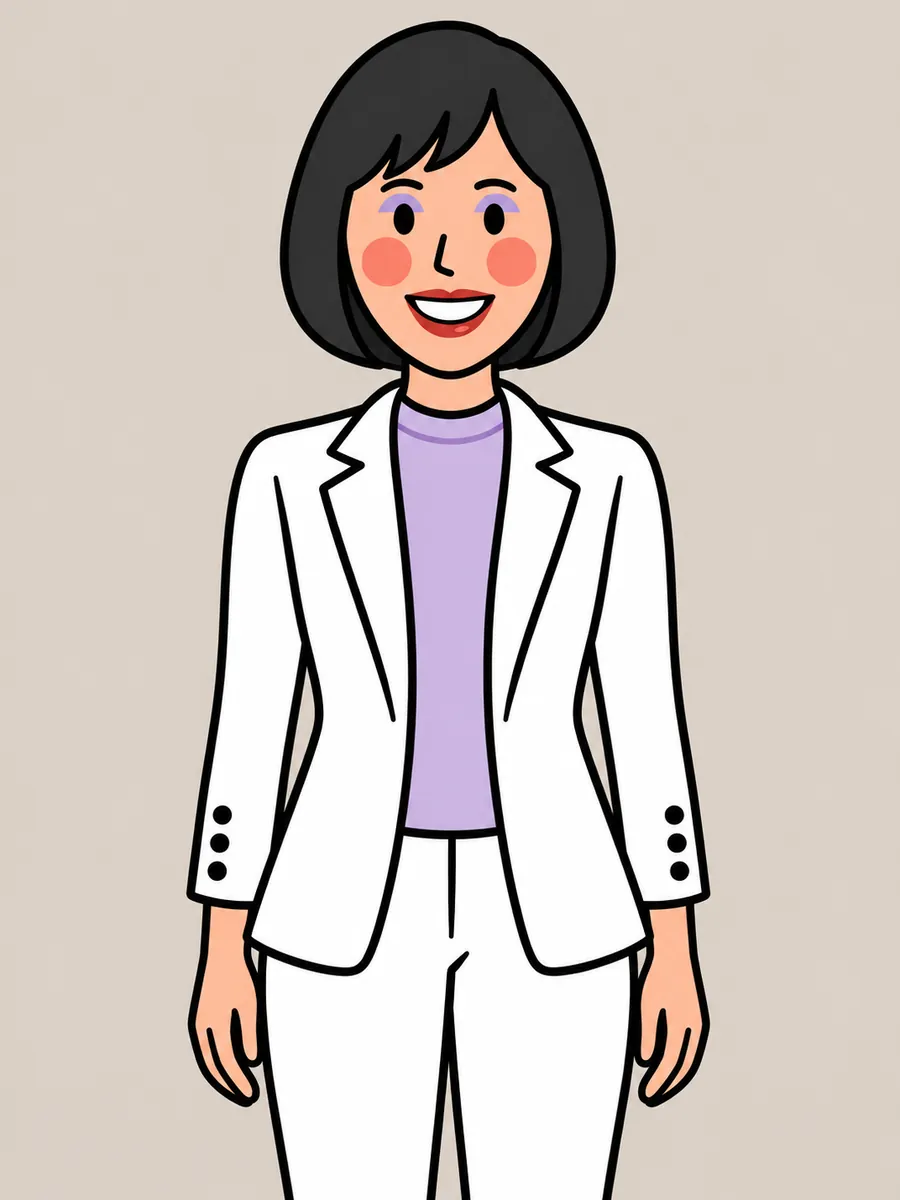
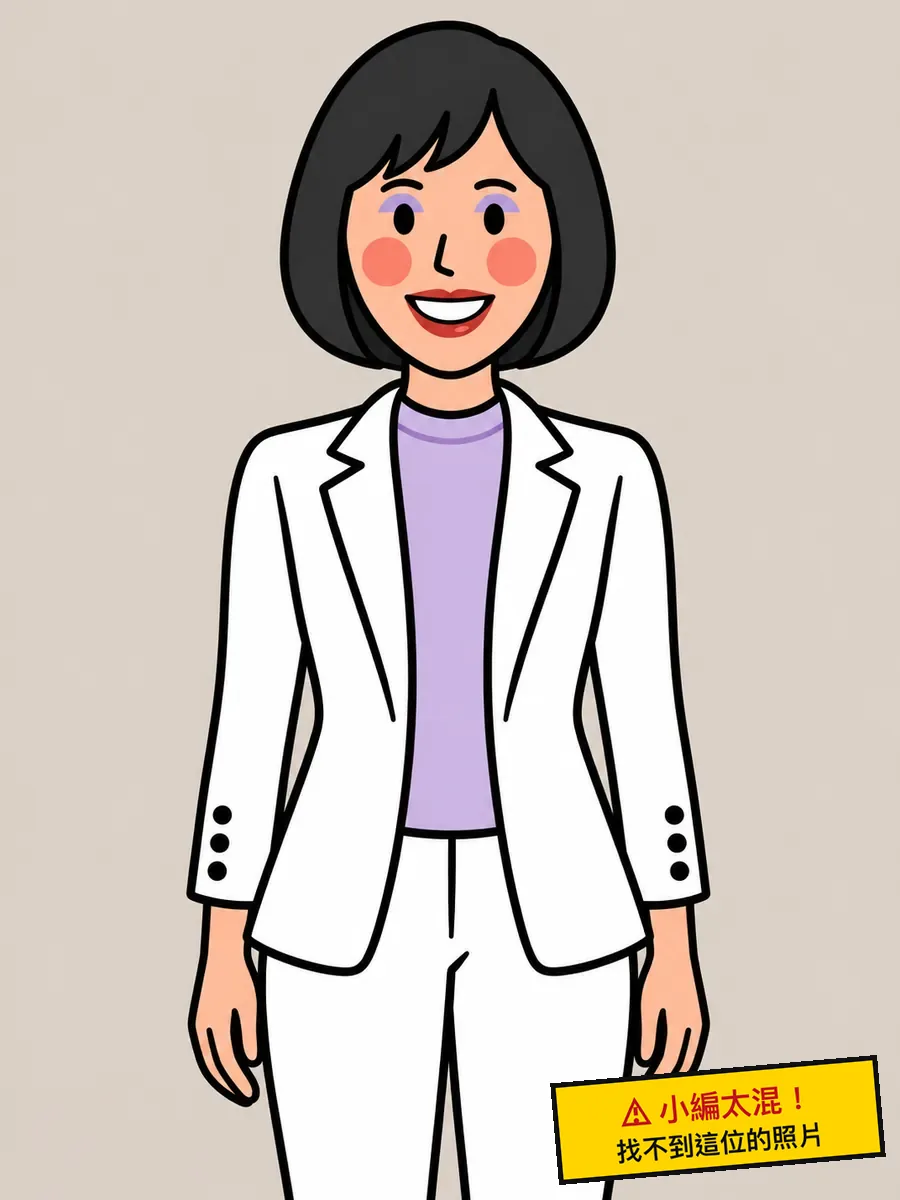
缺照片的候選人直接顯示共用圖、右下角貼「小編太混」貼紙，卡片同列對齊
- NO_IMG 名單直接放共用圖，不靠圖片 404（瀏覽器快取舊圖也不會露出）
- 共用圖右下角貼跟打碼一樣的黃底貼紙，網頁不再疊字
- 同列卡片等高；1.5:1 以上的寬圖佔兩欄、框 3:2

Changed region(s): [[0.5911, 0.8633, 0.9956, 0.9867]]

diff --git a/index.html b/index.html
@@ -118,14 +118,13 @@ button{font:inherit;color:inherit;cursor:pointer}
 .art{display:block;width:100%;height:auto;aspect-ratio:3/4;max-width:100%;background:var(--paper-2)}
 .photo{position:relative;aspect-ratio:3/4;max-width:100%;overflow:hidden;background:var(--paper-2)}
 .photo img{position:absolute;inset:0;width:100%;height:100%;object-fit:cover}
-/* 非直式圖：圖檔是 3:4 補模糊邊，框改成原比例、圖寬貼齊後垂直置中，只露出清楚的畫面 */
+/* 寬圖（WIDE 以上）：圖檔是 3:4 補模糊邊，框改成原比例、圖寬貼齊後垂直置中，只露出清楚的畫面 */
 .photo.fit img{inset:auto 0;top:50%;height:auto;transform:translateY(-50%)}
 .photo.fit .art{position:absolute;inset:0;width:100%;height:100%}
-.wall{align-items:start}
 .opt.wide{grid-column:1/-1}
-/* 沒有這位的圖：改放共用圖（img/_oops-{poster,look}-{m,f}，男女分開），中間疊一條自嘲字（像打碼說明）；共用圖也沒有就只剩內建插畫＋字 */
-.photo.oops::after{content:attr(data-cap);position:absolute;left:8%;right:8%;top:50%;background:var(--ink);color:#fff;font-weight:900;font-size:14px;line-height:1.4;padding:8px 10px;text-align:center;text-wrap:balance;transform:rotate(-3deg)}
-@media (min-width:600px){.opt.wide{grid-column:span 2}}
+/* 沒有照片的候選人：放共用圖 img/_oops-{poster,look}-{m,f}（男女分開，右下角貼紙由 source/scripts/oops_bake.py 畫進圖裡） */
+/* 桌機：寬圖佔兩欄、框固定 3:2，跟同列 3:4 的卡片等高（同列卡片會拉成一樣高） */
+@media (min-width:600px){.opt.wide{grid-column:span 2}.opt.wide .photo{aspect-ratio:3/2!important}}
 .photo .mask{position:absolute;background:var(--ink);display:grid;place-items:center;color:#fff;font-weight:900;font-size:12px;transform:rotate(-3deg)}
 
 .cta{display:flex;flex-wrap:wrap;gap:10px;align-items:center;padding-bottom:28px}
@@ -638,6 +637,7 @@ const LOOK_ALTS = {
   "kinmen-5": ["2"],
   "kinmen-6": ["2"]
 };
+const NO_IMG = new Set(["taipei-1","taipei-2","taipei-4","taipei-6","newtaipei-2","taichung-2","tainan-1","kaohsiung-1","kaohsiung-4","keelung-2","nantou-1","yunlin-1","chiayicity-1","chiayicity-2","chiayicity-5","pingtung-2","yilan-2","yilan-4","yilan-5","hualien-4","taitung-3","penghu-1","penghu-5","penghu-6","kinmen-1","kinmen-3","kinmen-7","lienchiang-1","lienchiang-2"]);
 const IMG_RATIO = {"changhua-1-poster-2":1.0,"changhua-1-poster":1.0,"changhua-2-poster-2":1.0,"changhua-2-poster":1.0,"changhua-3-poster-2":1.0,"changhua-3-poster":2.63,"changhua-4-poster":1.79,"chiayicity-3-poster-2":1.0,"chiayicity-3-poster":1.0,"chiayicity-4-poster-2":1.0,"chiayicity-4-poster":2.63,"chiayicounty-1-poster-2":1.41,"chiayicounty-1-poster":1.92,"chiayicounty-2-poster-2":1.0,"chiayicounty-2-poster":1.0,"hsinchucity-1-poster-2":1.0,"hsinchucity-1-poster":2.6,"hsinchucity-2-poster-2":1.34,"hsinchucity-2-poster":1.0,"hsinchucity-3-poster-2":1.0,"hsinchucity-3-poster":2.63,"hsinchucounty-1-poster":1.0,"hsinchucounty-2-poster-2":1.0,"hsinchucounty-2-poster":1.79,"hsinchucounty-3-poster-2":1.0,"hsinchucounty-3-poster":1.33,"hualien-1-poster-2":1.0,"hualien-1-poster-3":1.0,"hualien-1-poster":1.0,"hualien-2-poster-2":2.28,"hualien-2-poster-3":1.0,"hualien-2-poster":1.0,"hualien-3-poster-2":1.0,"hualien-3-poster":1.0,"kaohsiung-3-poster-2":1.42,"kaohsiung-3-poster-4":1.0,"kaohsiung-3-poster":1.0,"kaohsiung-5-poster-2":1.0,"kaohsiung-5-poster-3":1.0,"kaohsiung-5-poster-4":1.0,"kaohsiung-5-poster":1.0,"keelung-1-poster":2.6,"kinmen-4-poster-2":1.55,"kinmen-4-poster":1.0,"kinmen-5-poster":1.0,"kinmen-6-poster-2":2.67,"kinmen-6-poster":0.95,"miaoli-1-poster-2":0.85,"miaoli-1-poster":1.0,"miaoli-2-poster-2":2.6,"miaoli-2-poster":1.79,"nantou-2-poster":1.08,"newtaipei-1-poster-2":1.0,"newtaipei-1-poster":1.0,"newtaipei-3-poster-2":1.0,"newtaipei-3-poster-3":1.0,"newtaipei-3-poster-4":1.0,"newtaipei-3-poster":1.0,"penghu-2-poster-2":0.85,"penghu-3-poster-2":1.78,"penghu-3-poster":1.0,"penghu-4-poster-2":1.0,"penghu-4-poster":1.0,"pingtung-1-poster-2":1.33,"pingtung-1-poster":1.0,"taichung-1-poster-10":1.0,"taichung-1-poster-11":1.0,"taichung-1-poster-12":1.78,"taichung-1-poster-13":1.0,"taichung-1-poster-14":1.0,"taichung-1-poster-15":1.0,"taichung-1-poster-16":1.0,"taichung-1-poster-18":1.0,"taichung-1-poster-2":1.0,"taichung-1-poster-3":1.0,"taichung-1-poster-4":1.0,"taichung-1-poster-5":1.0,"taichung-1-poster-6":1.0,"taichung-1-poster-7":1.0,"taichung-1-poster-8":1.0,"taichung-1-poster-9":1.0,"taichung-1-poster":1.0,"taichung-3-poster-2":1.09,"taichung-3-poster-3":1.0,"taichung-3-poster-4":1.0,"taichung-3-poster":2.52,"tainan-2-poster-2":1.0,"tainan-2-poster-3":1.0,"tainan-2-poster-4":1.0,"tainan-2-poster":1.0,"tainan-3-poster-3":1.0,"tainan-3-poster":1.0,"tainan-4-poster-2":1.5,"tainan-4-poster":1.28,"taipei-3-poster-10":2.6,"taipei-3-poster-11":1.0,"taipei-3-poster-12":1.0,"taipei-3-poster-13":1.0,"taipei-3-poster-14":1.0,"taipei-3-poster-15":1.0,"taipei-3-poster-16":1.0,"taipei-3-poster-17":1.0,"taipei-3-poster-18":1.0,"taipei-3-poster-19":1.0,"taipei-3-poster-2":1.0,"taipei-3-poster-20":1.0,"taipei-3-poster-21":1.0,"taipei-3-poster-22":1.0,"taipei-3-poster-23":1.0,"taipei-3-poster-24":1.78,"taipei-3-poster-25":1.0,"taipei-3-poster-26":1.0,"taipei-3-poster-27":1.0,"taipei-3-poster-28":1.0,"taipei-3-poster-29":2.6,"taipei-3-poster-3":1.0,"taipei-3-poster-4":1.0,"taipei-3-poster-6":1.0,"taipei-3-poster-7":1.0,"taipei-3-poster-8":1.0,"taipei-3-poster-9":1.0,"taipei-3-poster":1.0,"taipei-5-poster-10":1.0,"taipei-5-poster-2":1.0,"taipei-5-poster-3":1.0,"taipei-5-poster-4":1.0,"taipei-5-poster-5":1.0,"taipei-5-poster-6":1.0,"taipei-5-poster-7":1.0,"taipei-5-poster-8":1.0,"taipei-5-poster-9":1.0,"taipei-5-poster":1.0,"taitung-1-poster-2":1.66,"taitung-2-poster":1.0,"taitung-4-poster-2":2.01,"taitung-4-poster":2.01,"taoyuan-1-poster-2":1.78,"taoyuan-1-poster":1.0,"taoyuan-2-poster-2":1.5,"taoyuan-2-poster":1.0,"yilan-1-poster":1.0,"yilan-3-poster-3":1.0,"yilan-3-poster-4":1.0,"yilan-3-poster":1.5,"yunlin-2-poster":2.71,"yunlin-3-poster-2":1.79,"yunlin-3-poster":1.79,"yunlin-4-poster":1.0};
 const imgAlts = (kind,key) => ((kind==="look" ? LOOK_ALTS : POSTER_ALTS)[key]||[]);
 function nextPoster(key, pool){
@@ -652,20 +652,22 @@ function optInner(key,c,d){
   if(key==="slogan"){ if(!c.slogans.length) return `<div class="banner"><q class="none">查無公開口號</q><small>這位候選人沒有找到競選口號</small></div>`; const sl=c.slogans[(state?.rot||0)%c.slogans.length]; return `<div class="banner"><q>${esc(sl.t)}</q><small>${KIND_LABEL[sl.kind]||""}</small></div>`; }
   const kind = key==="look" ? "look" : "poster";
   const svg = key==="look" ? lookArt(c,d) : posterArt(c,d);
+  const cid = `${d.id}-${c.n}`;
+  const g = OOPS_F.has(cid) ? "f" : "m";
+  if(NO_IMG.has(cid)) return `<div class="photo oops">${svg}<img src="${SITE}img/_oops-${kind}-${g}.webp?v=2" alt="" onerror="this.remove()"></div>`;
   const file = pickFile(kind,c,d);
-  const r = IMG_RATIO[file];
-  return `<div class="photo${r?" fit":""}"${r?` style="aspect-ratio:${r}"`:""} data-cap="${OOPS_CAP[kind]}">${svg}<img src="${SITE}img/${file}.webp" alt="" data-kind="${kind}" data-g="${OOPS_F.has(`${d.id}-${c.n}`)?"f":"m"}" onerror="oops(this)"></div>`;
+  const r = (IMG_RATIO[file]||0) >= WIDE ? IMG_RATIO[file] : 0;
+  return `<div class="photo${r?" fit":""}"${r?` style="aspect-ratio:${r}"`:""}>${svg}<img src="${SITE}img/${file}.webp" alt="" data-kind="${kind}" data-g="${g}" onerror="oops(this)"></div>`;
 }
 // 沒有照片的候選人裡的女性（共用圖用女版）
 const OOPS_F = new Set(["nantou-1","pingtung-2","taichung-2","yilan-5"]);
-const OOPS_CAP = {poster:"小編不夠用心，找不到這位的競選照", look:"小編太混，找不到這位的照片"};
 function oops(img){
   const p = img.parentNode;
   if(p.classList.contains("oops")){ img.remove(); return; }
   p.classList.add("oops"); p.classList.remove("fit"); p.style.aspectRatio = "";
-  img.src = `${SITE}img/_oops-${img.dataset.kind}-${img.dataset.g}.webp`;
+  img.src = `${SITE}img/_oops-${img.dataset.kind}-${img.dataset.g}.webp?v=2`;
 }
-const WIDE = 1.4;  // 比這寬的圖整列顯示、排在最前面
+const WIDE = 1.5;  // 這麼寬以上的圖佔兩欄（手機整列）、排在最前面；其他圖一律 3:4 框
 function pickFile(kind,c,d){
   const key = `${d.id}-${c.n}`;
   state.files = state.files || {};
